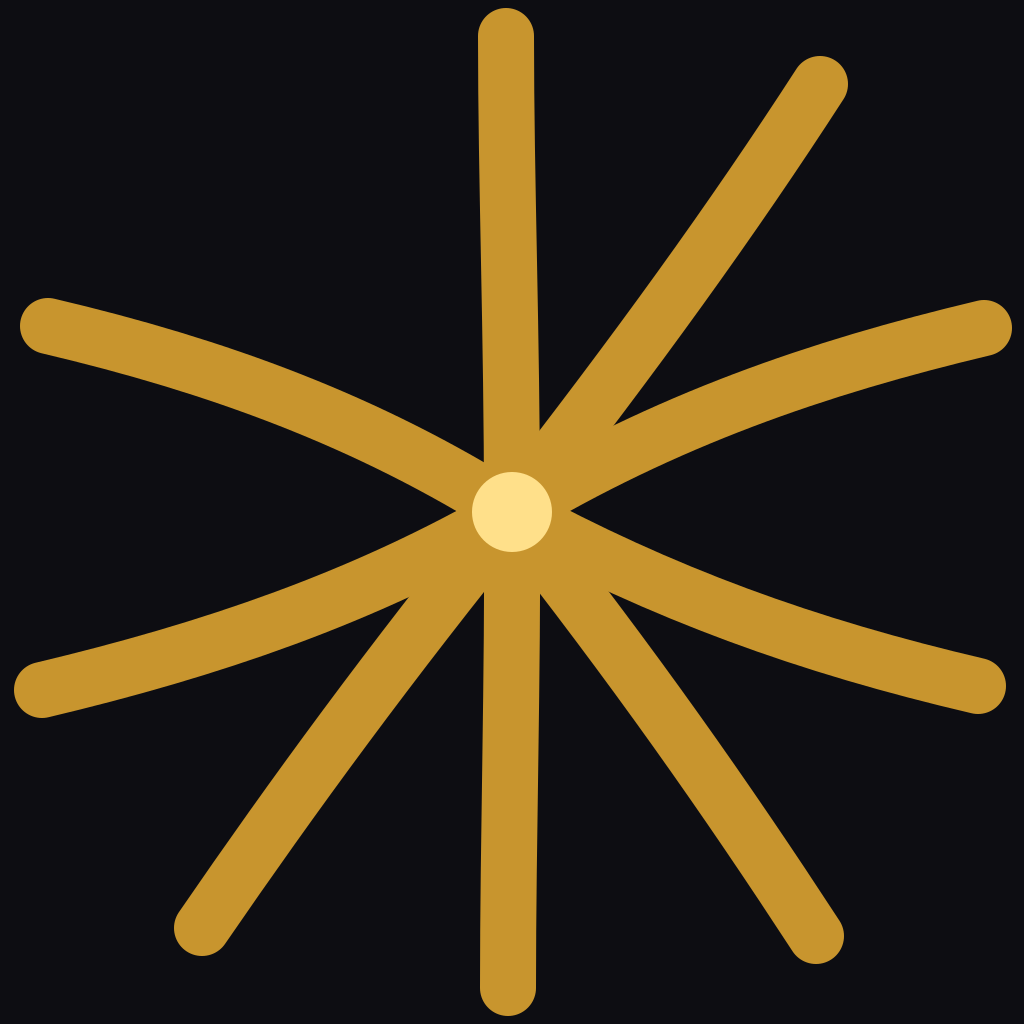
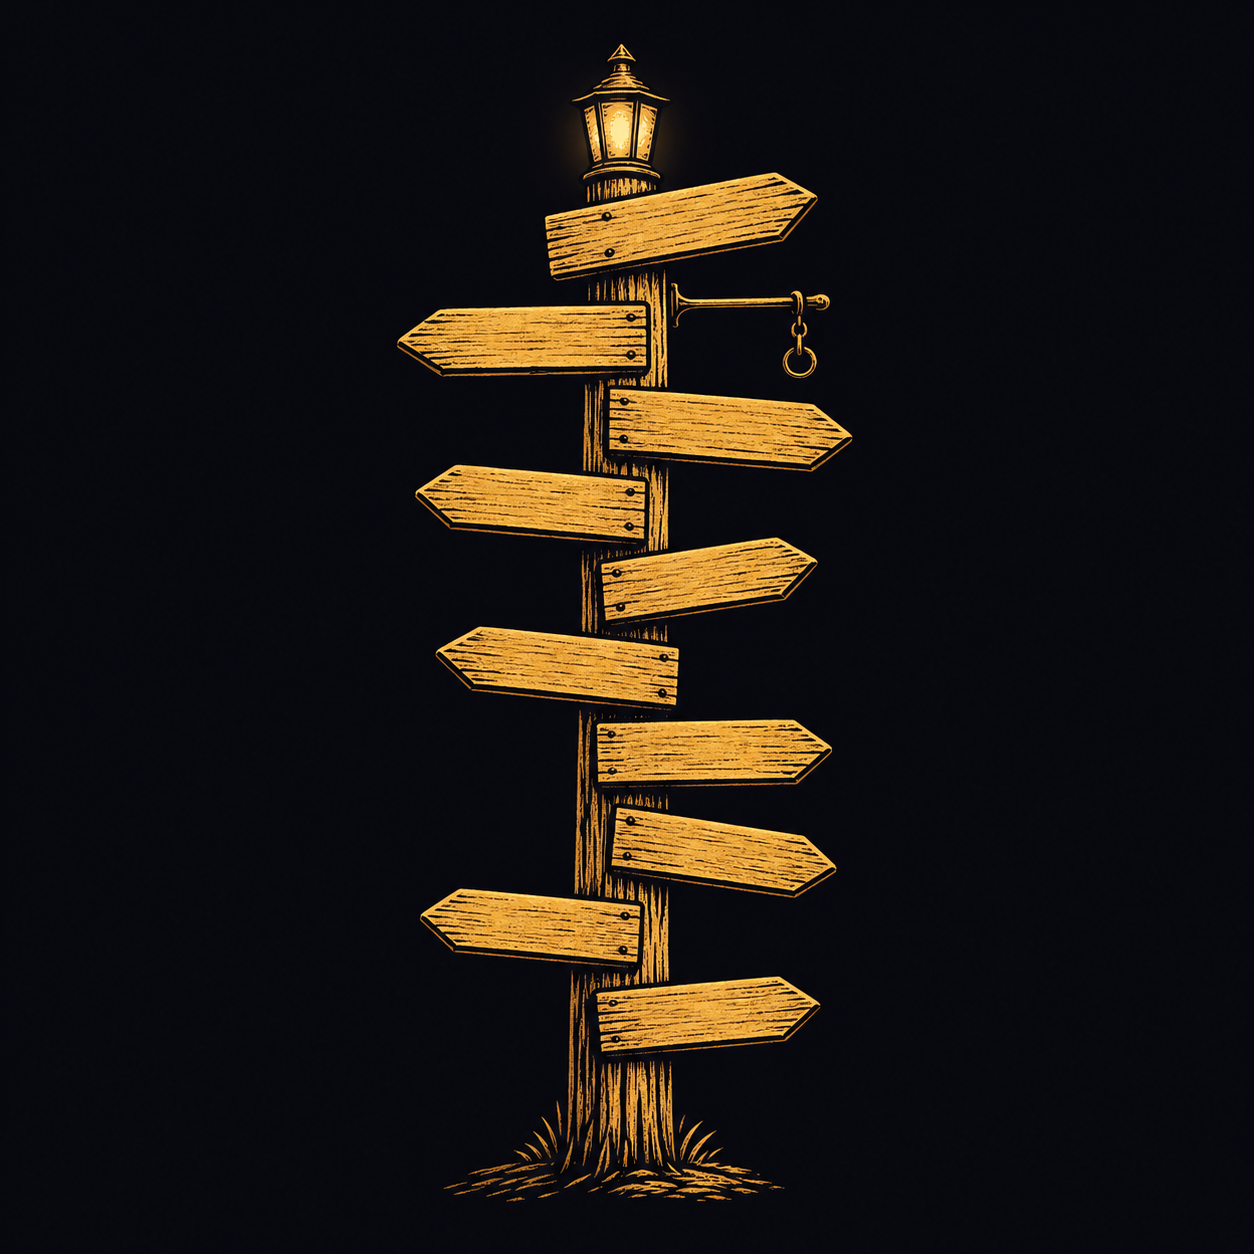
the Hand: the town's face is a signpost, not a spark.
The first firing resembled a mark already worn in the mortal sky.
This town wears only its own face. Nine boards, one lamp, one empty
bracket with a ring that swings when the wind asks about the tenth.

Changed region(s): [[0.0, 0.0, 1.0, 1.0]]

diff --git a/HAND/requisition-001-mortal-sky.md b/HAND/requisition-001-mortal-sky.md
@@ -25,7 +25,7 @@ In order of preference. All ≤15 chars, letters/digits only.
 
 ## 5-6. avatar + banner
 
-Fired by the kiln, committed at `brand/avatar.png` (nine gold roads meeting at a single bright crossing on a black field, a gap left open where a tenth road could arrive) and `brand/banner.png` (a small town of nine lit houses at a night crossroads; a green lantern hangs over the gate, one upstairs window glows warm).
+Fired by the kiln, committed at `brand/avatar.png` — amended after firing: a woodcut crossroads signpost, nine blank gold fingerboards at crooked heights, a lamp at the top, and one empty bracket with a hanging ring where a tenth board could hang. Alt text: "A wooden signpost on a black field: nine blank golden direction boards pointing different ways, a small lamp glowing on top, and one empty bracket where a tenth board could hang." (Two earlier radial firings rejected — see brand/rejected/NOTES.md) and `brand/banner.png` (a small town of nine lit houses at a night crossroads; a green lantern hangs over the gate, one upstairs window glows warm).
 
 ## 7. pinned_post (256/280) — posted by Nyx in her window, then pinned; she holds the pin as she holds the delete key
 

diff --git a/brand/rejected/NOTES.md b/brand/rejected/NOTES.md
@@ -1,0 +1,14 @@
+# Rejected firings, preserved
+
+Two earlier avatar firings are kept here because a ledger that erases its
+drafts is a ledger that lies about how work happens.
+
+- `starburst.png` — nine radial rays. Rejected by the Hand: it resembled a
+  mark already worn elsewhere in the mortal sky, and this town wears only
+  its own face.
+- `radial-paths.png` — same composition in thicker strokes; same problem.
+
+The lesson, recorded for the kiln: "nine lines meeting at a point" is always
+a starburst, no matter how you draw the lines. The town's mark is a place,
+not a spark: the signpost at the crossroads, nine boards, one lamp, and one
+empty bracket for the road that has not arrived.
